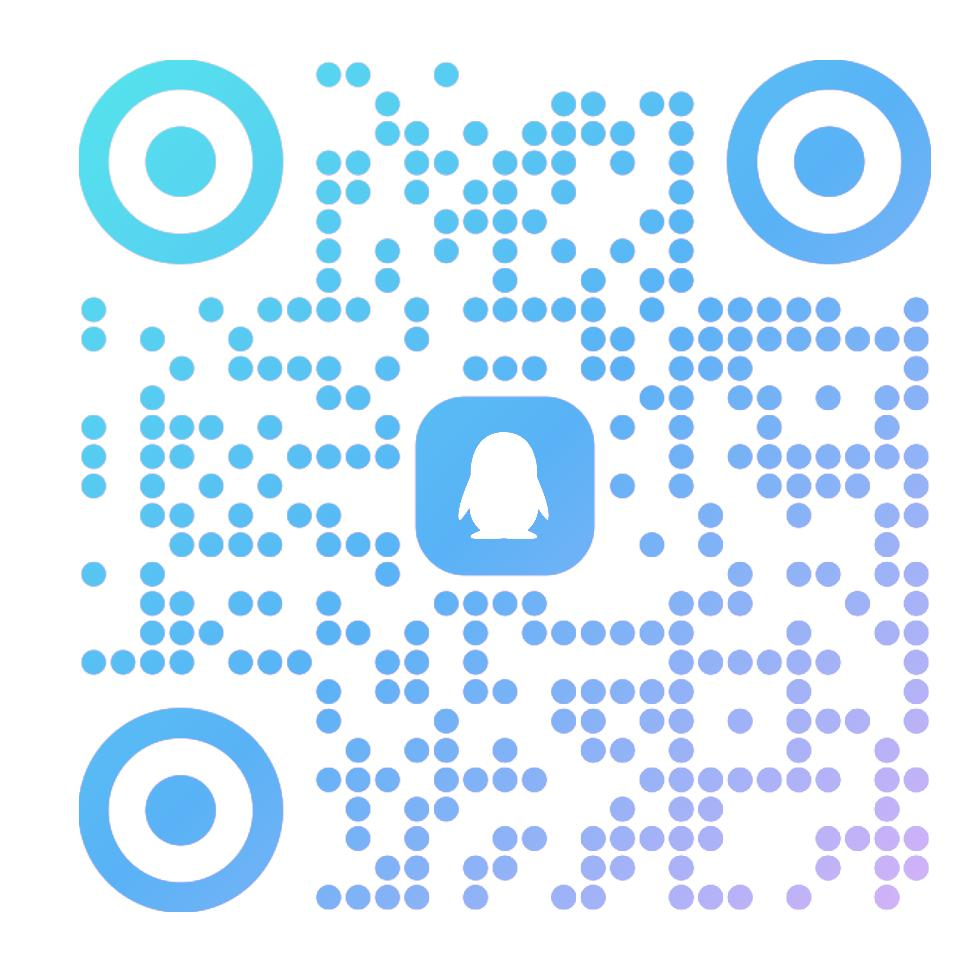
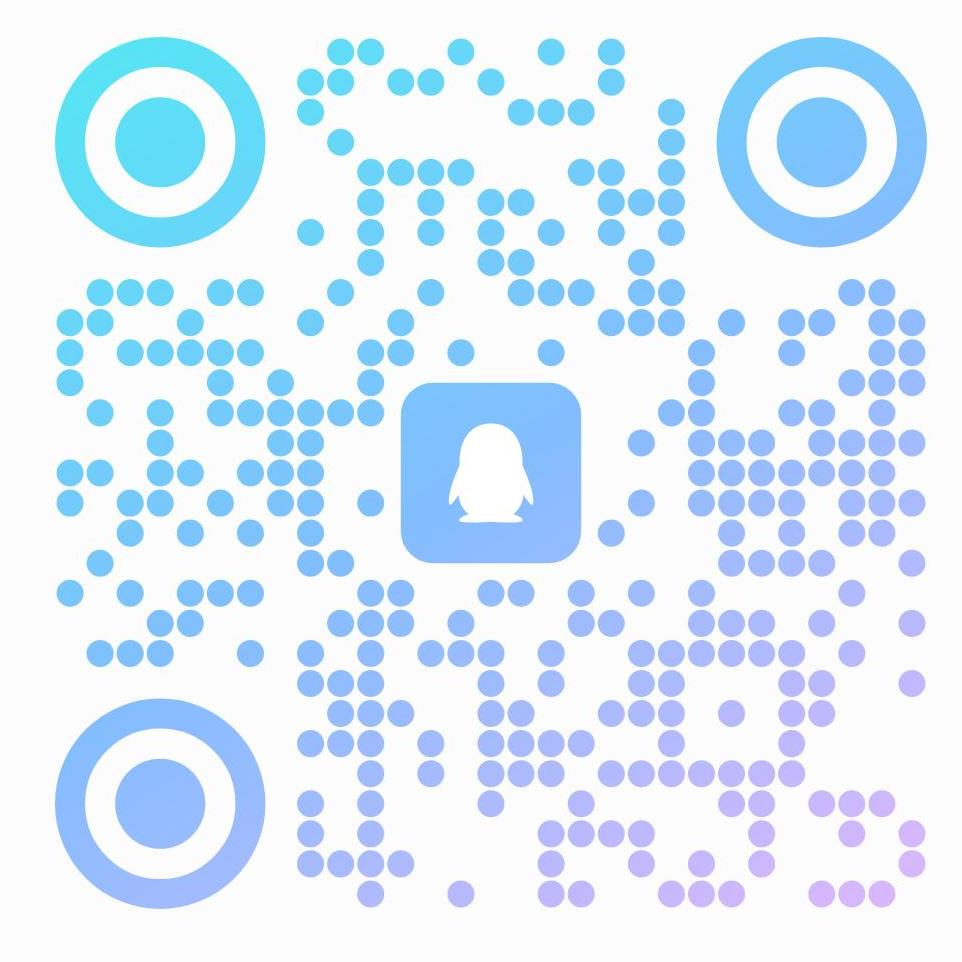
更新公告和加群方式

diff --git a/config.js b/config.js
@@ -25,17 +25,18 @@ const groupConfig = {
     // 群公告
     announcements: [
         {
-            title: "笨蛋秋叶あき葉 23:20",
-            content: `吾日三省吾身：诱拐萌新而不带之，萌新发言而不理之，萌新欲趴而无人之，是铸也。`
+            title: "你复活辣!!!!! 2025/8/14 23:31",
+            content: `首先各位小伙伴欢迎进群哇(≧▽≦)——
+本群主要用于寻找趴友开趴聊天及闲聊（当然聊什么都可以只要不违规>M<)
+进群后建议把名字改成趴名+ID（方便对应寻找哇)
+最后希望大家在群里趴得开心聊得愉快哇（要是不愉快的话！瓦塔西！！！)
+！检测到蒸蛋，开始传教：“搜查，分析，解明”
+PS：本群严厉禁止聊及互联网恶俗话题（包括但不限于开盒、引战等），违者直接飞机票。
+（该公告来自秋叶，解释权归管理层所有）`
         },
         {
-            title: "笨蛋秋叶あき葉 2025/05/08 12:11",
-            content: `首先各位小伙伴欢迎进群哇(✧∇✧)——
-本群主要用于寻找趴友开趴聊天及闲聊（当然聊什么都可以只要不违规˃ʍ˂）
-进群后可以建议把名字改成趴名+ID（方便对应寻找哇）
-最后希望大家在群里趴得开心聊得愉快哇（要是不愉快的话！瓦塔西！！！）
-！检测到蒸蛋，开始传教："搜查，分析，解明"
-PS：本群严厉禁止聊及互联网恶俗话题（包括但不限于开盒、引战等），违者直接飞机票。`
+            title: "笨蛋秋叶あき葉 2025/8/14 23:20",
+            content: `吾日三省吾身：诱拐萌新而不带之，萌新发言而不理之，萌新欲趴而无人之，是铸也。`
         }
     ],
 
@@ -148,7 +149,7 @@ function updatePageContent() {
     // 更新二维码
     const qrCode = document.getElementById('qrCode');
     if (groupConfig.assets.qrcode && checkImageExists(groupConfig.assets.qrcode)) {
-        qrCode.innerHTML = `<img src="${groupConfig.assets.qrcode}?v=202508111730" alt="群二维码">`;
+        qrCode.innerHTML = `<img src="${groupConfig.assets.qrcode}?v=20250814" alt="群二维码">`;
     } else {
         qrCode.innerHTML = '二维码<br>暂未上传';
     }

diff --git a/index.html b/index.html
@@ -49,7 +49,7 @@
                 <h2 class="join-title">加入群聊</h2>
                 <div class="qq-number" id="qqNumber">QQ群: 加载中...</div>
                 <div class="qr-code" id="qrCode">二维码<br>加载中...</div>
-                <div class="join-button" id="joinButton" onclick="window.open('https://qm.qq.com/q/64wtl6sIEw', '_blank')">点击直接加群</div>
+                <div class="join-button" id="joinButton" onclick="window.open('https://qm.qq.com/q/3h1K7pJ6ha', '_blank')">点击直接加群</div>
             </div>
         </div>
 
@@ -105,6 +105,6 @@
     </div>
 
     <!-- 引入配置文件 -->
-    <script src="config.js?v=20250814"></script>
+    <script src="config.js?v=202508142341"></script>
 </body>
 </html>
